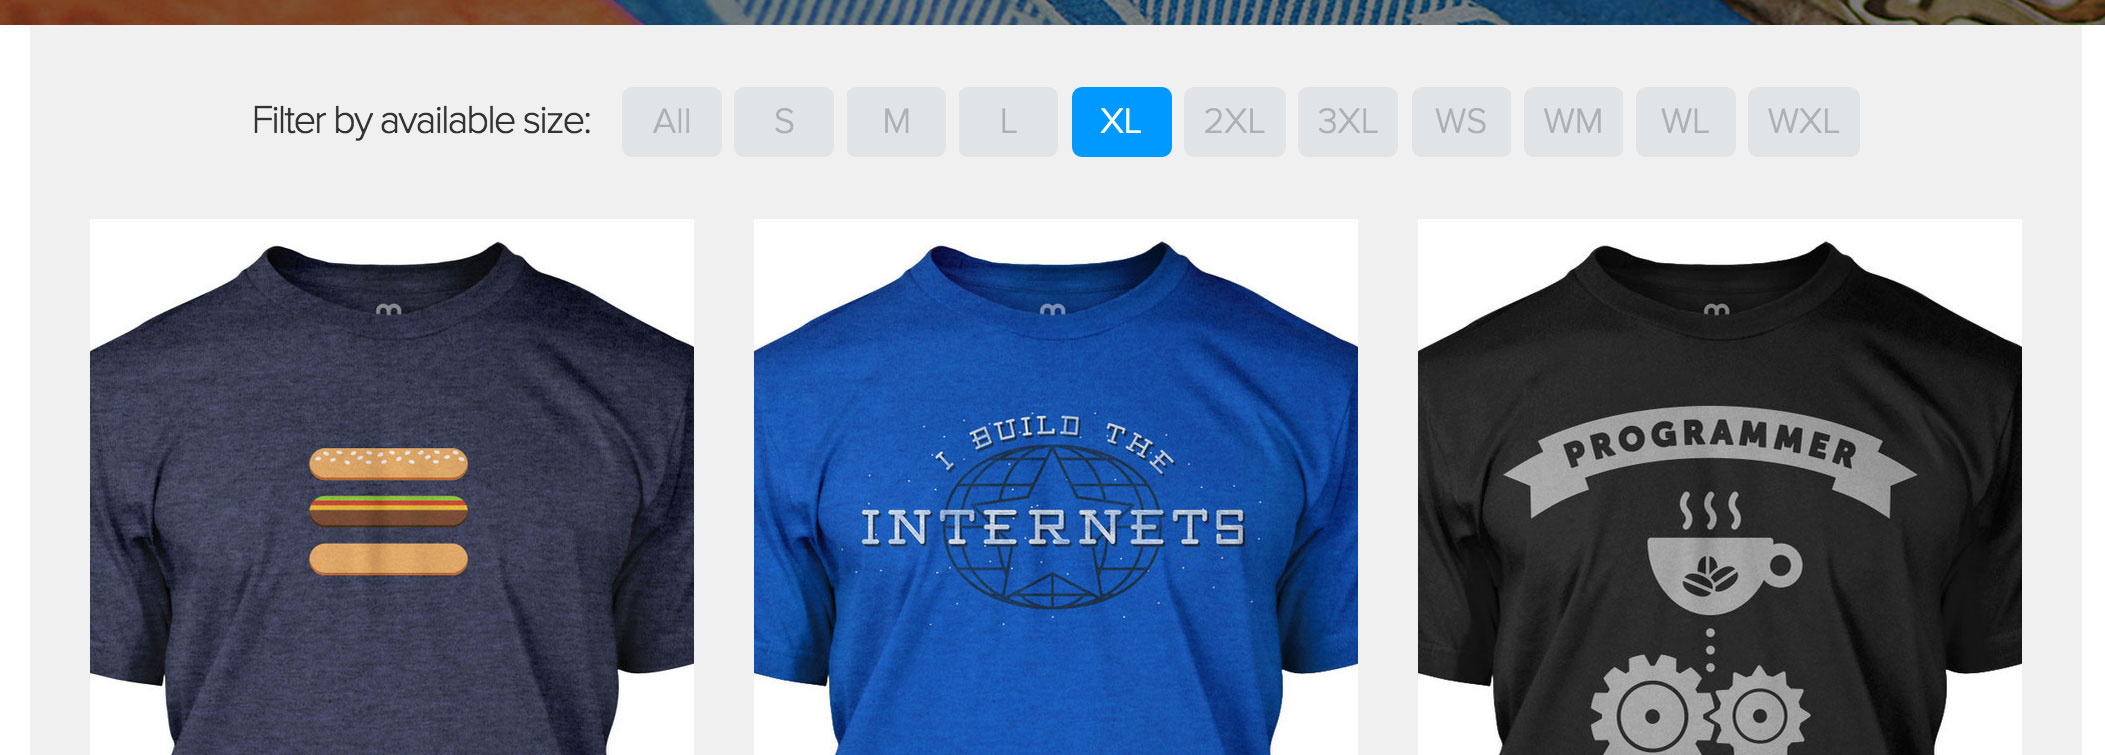
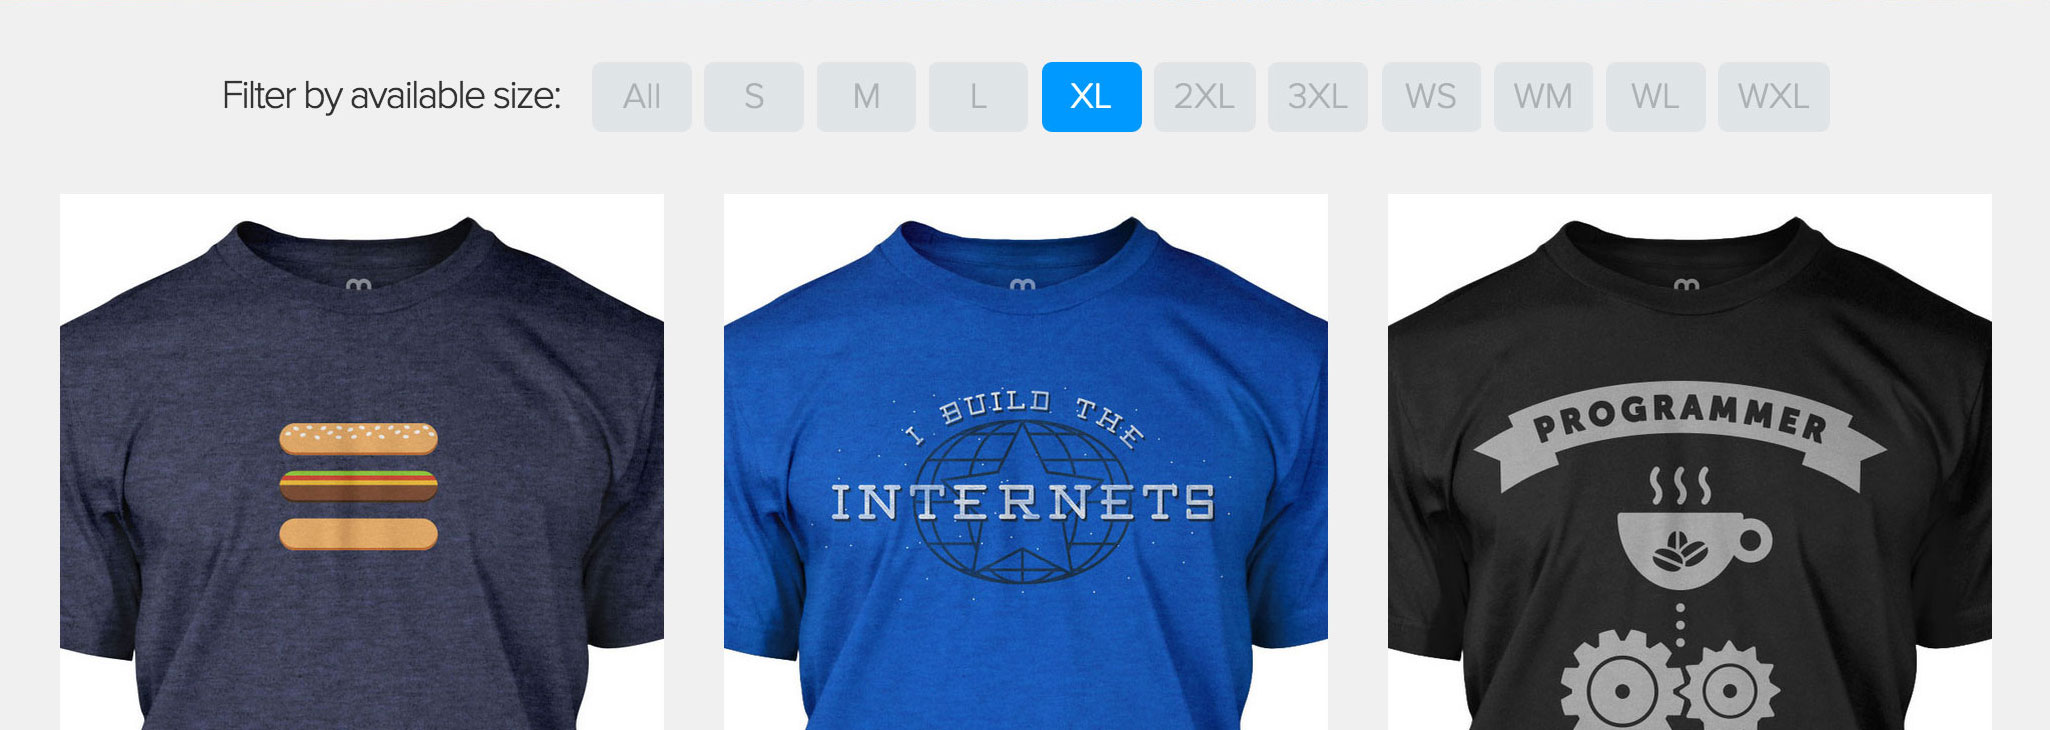
add image to readme

diff --git a/README.md b/README.md
@@ -1,2 +1,5 @@
-# shopify-product-filter
-A simple product variant filter for Shopify stores.
+# Shopify Product Filter
+
+*A simple, jQuery based product variant filter for Shopify stores, based on [devtees.com](http://devtees.com).*
+
+![img](assets/screenshot.jpg)
